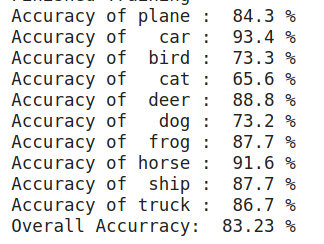
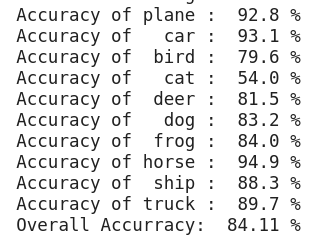
Update result2

diff --git a/hw5-CIFAR-10/README.md b/hw5-CIFAR-10/README.md
@@ -68,12 +68,13 @@ net = IdentityResNet(nblk_stage1=2, nblk_stage2=2,
 ```
 如果想调整block数以提高准确度在上方代码中修改数字即可
 
-* Result of changed the block of netword and data augmentation as below, accuracy increased 5%
+* Result of changed the block of netword and data augmentation as below, accuracy increased 6%
 
 
 ```python
-# using RandomHorizontalFlip function to data augmentation
+# using RandomHorizontalFlip and RandomCrop function to data augmentation
 transform = transforms.Compose([transforms.RandomHorizontalFlip(),
+								transforms.RandomCrop(28),
                                 transforms.ToTensor(),
                                 transforms.Normalize((0.5, 0.5, 0.5), (0.5, 0.5, 0.5))])
 
